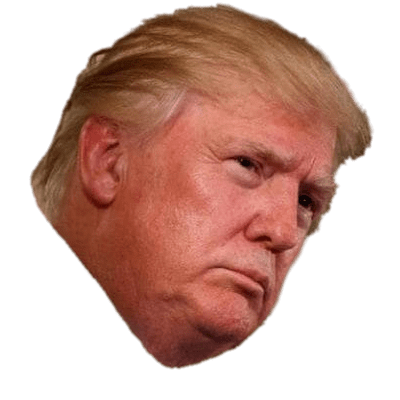
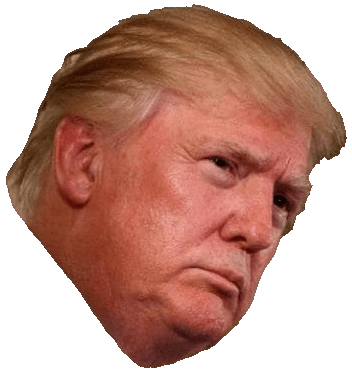
added trump

diff --git a/js/bouncing-trump.js b/js/bouncing-trump.js
@@ -9,7 +9,7 @@
 // The function gets called when the window is fully loaded
 window.onload = function() {
     // Get the canvas and context
-    var total_trumps = 13;
+    var total_trumps = 14;
     var canvas = document.getElementById("trump-canvas");
     canvas.width = document.body.clientWidth;
     canvas.height = document.body.clientHeight;
